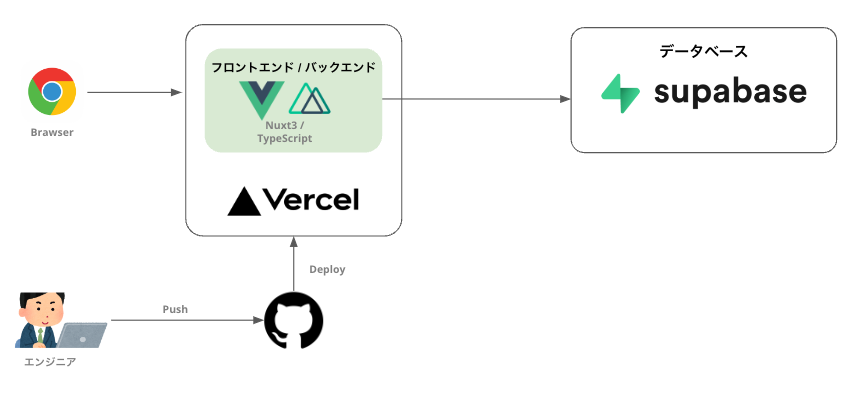
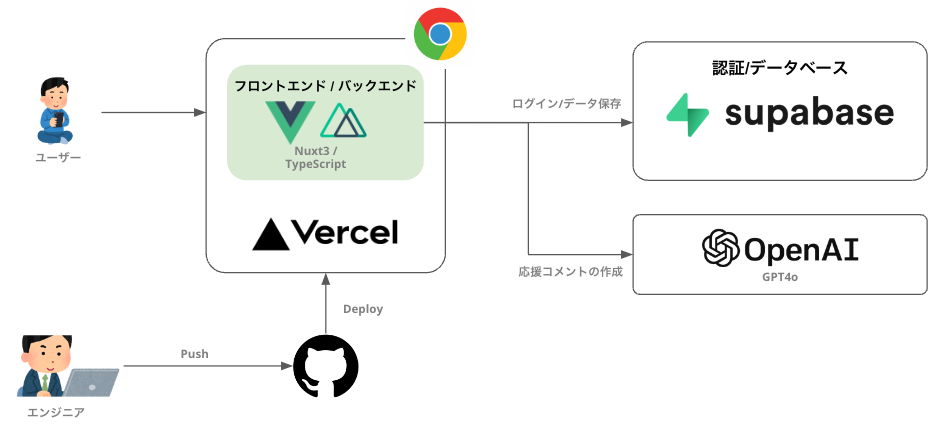
:books: OpenAIの追加と利用SaaSの一覧表を追加

diff --git a/README.md b/README.md
@@ -14,6 +14,15 @@
 
 ![構成図](docs/arch.png)
 
+### 技術スタック
+
+| 技術     | 利用用途                         | URL                              |
+| -------- | -------------------------------- | -------------------------------- |
+| Nuxt.js  | フロント/バックエンド            | [Nuxt.js](https://nuxtjs.org/)   |
+| Vercel   | サーバーのホスティング           | [Vercel](https://vercel.com/)    |
+| Supabase | データベースの永続化とユーザ認証 | [Supabase](https://supabase.io/) |
+| Open AI  | 家事の応援コメントを生成         | [Open AI](https://openai.com/)   |
+
 ## Quick Start
 
 必要ライブラリをインストールします。
